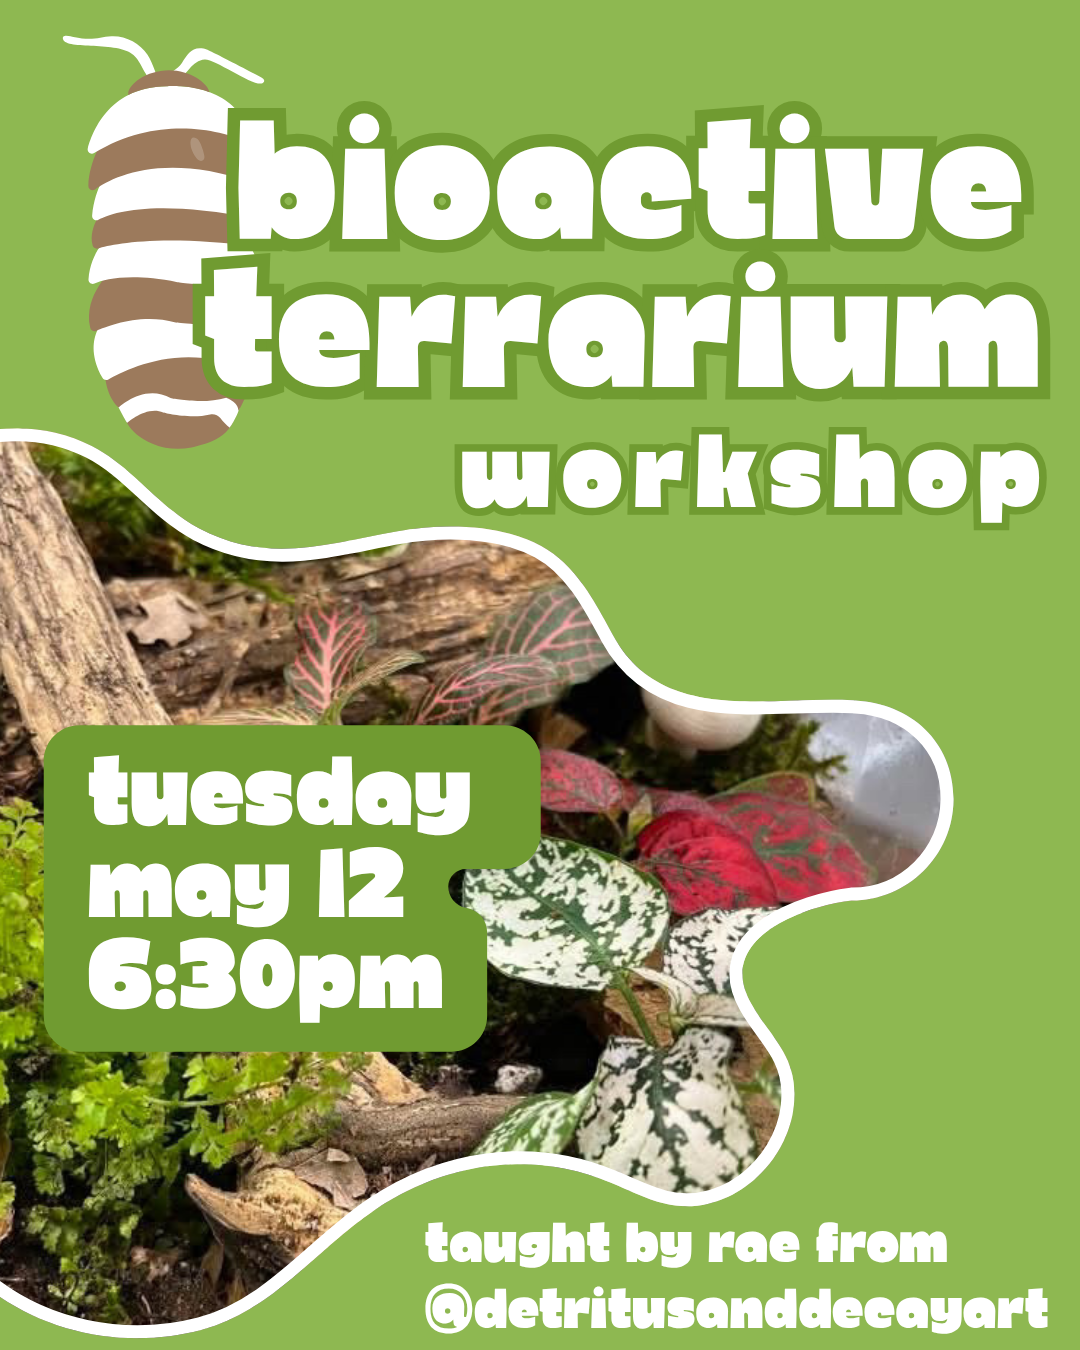
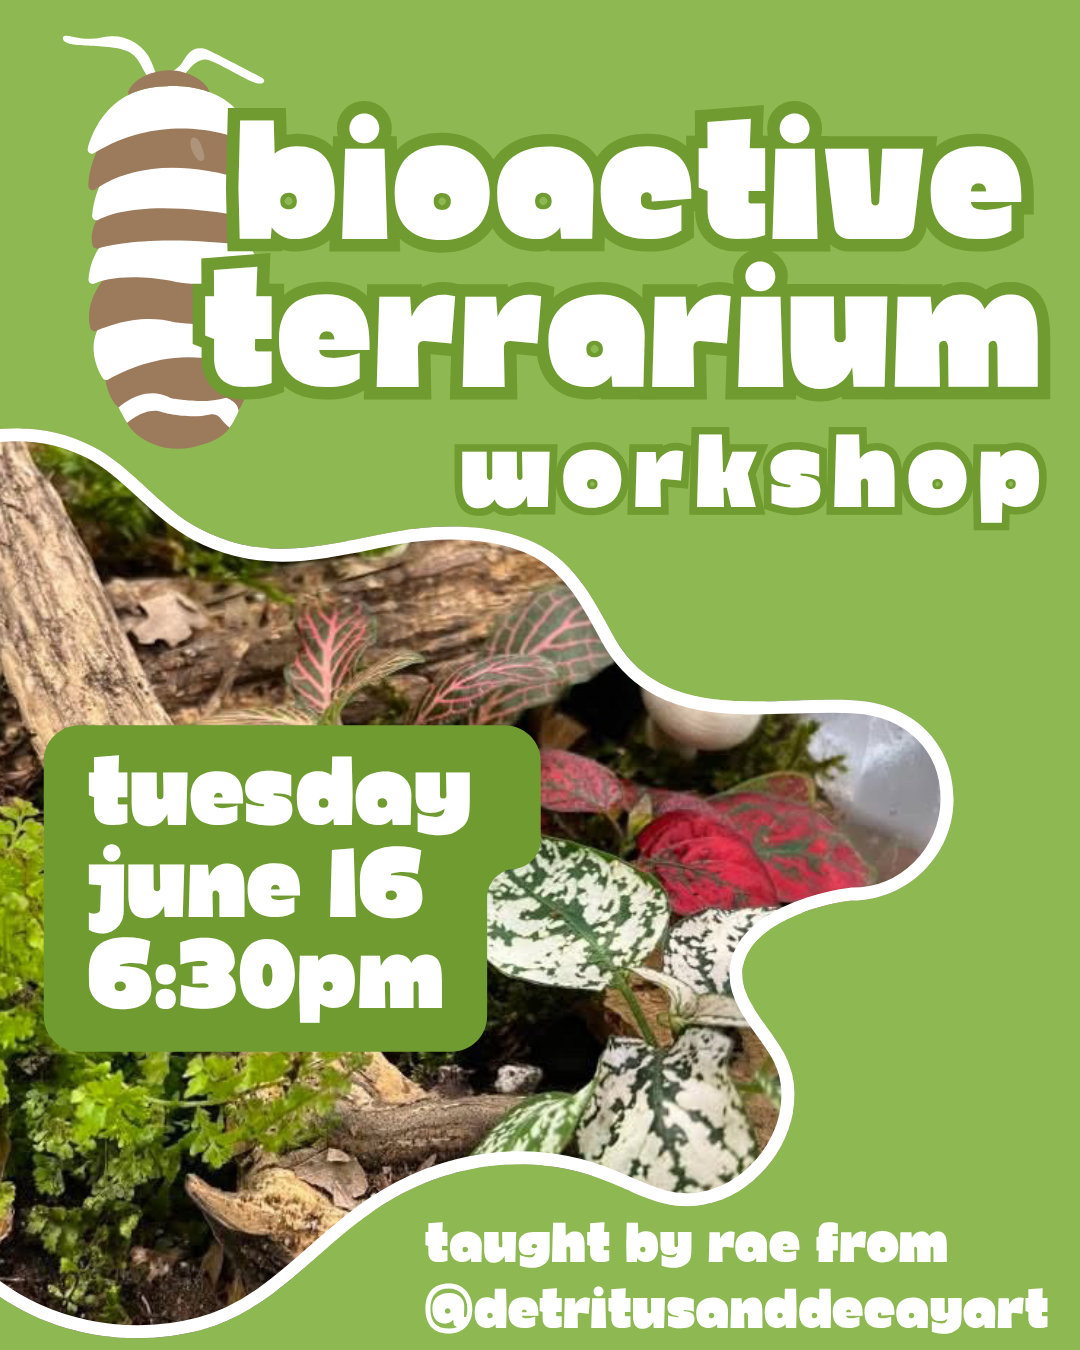
bioactive update, mothers day & soundbath removed

Changed region(s): [[0.0611, 0.6222, 0.4583, 0.7156]]

diff --git a/index.html b/index.html
@@ -84,7 +84,7 @@
         </div>
       </section> -->
 
-      <section id="mothersDayOrders" class="mothersDayOrders">
+      <!-- <section id="mothersDayOrders" class="mothersDayOrders">
         <div class="mothersDayContent">
           <img
             src="./img/motherday.png"
@@ -109,7 +109,7 @@
             Place Your Mother's Day Order
           </a>
         </div>
-      </section>
+      </section> -->
 
       <section id="events">
         <h2 class="sectionHeader">Events at Perch</h2>
@@ -121,7 +121,7 @@
               <img src="./img/bioactive.png" alt="Bioactive Terrarium Workshop flyer" class="eventFlyer" />
               <div class="eventTitle">
                 <h3>Bioactive Terrarium Workshop</h3>
-                <p class="eventDate">Tuesday 5/12 @ 6:30PM</p>
+                <p class="eventDate">Tuesday 6/16 @ 6:30PM</p>
               </div>
             </div>
             <div class="eventDescription">
@@ -185,7 +185,7 @@
             </div>
           </article> -->
 
-          <article class="event">
+          <!-- <article class="event">
             <div class="eventHeader">
               <img src="./img/soundbath.png" alt="Bioactive Terrarium Workshop flyer" class="eventFlyer" />
               <div class="eventTitle">
@@ -213,7 +213,7 @@
               </a>
 
             </div>
-          </article>
+          </article> -->
         </div>
       </section>
 